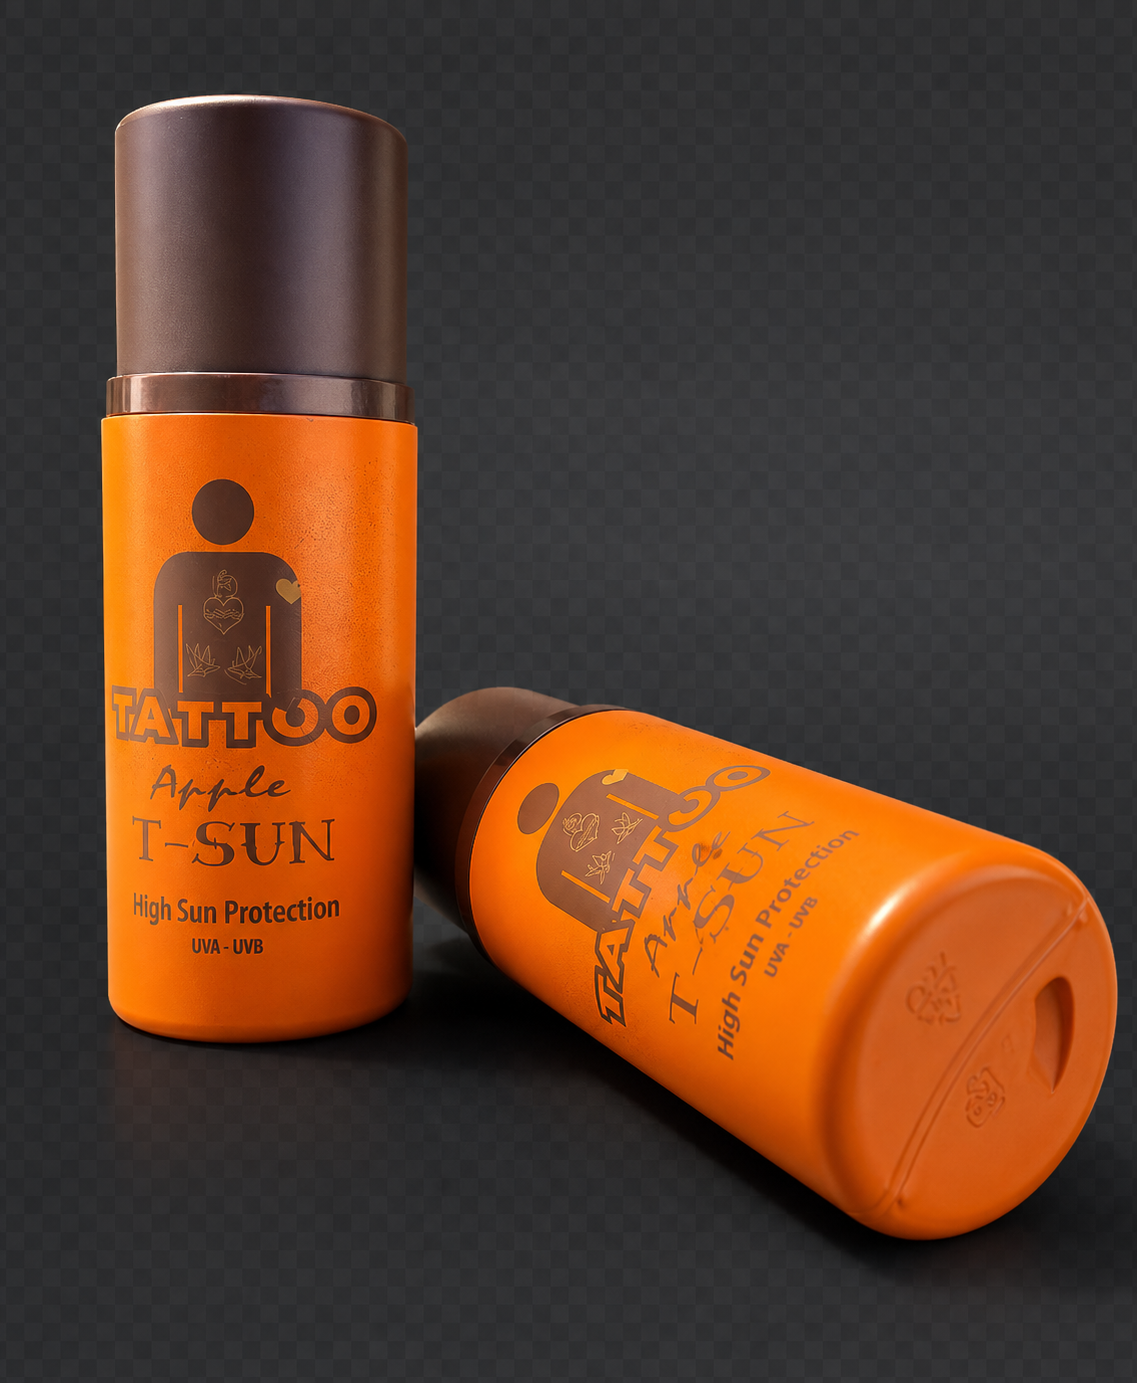
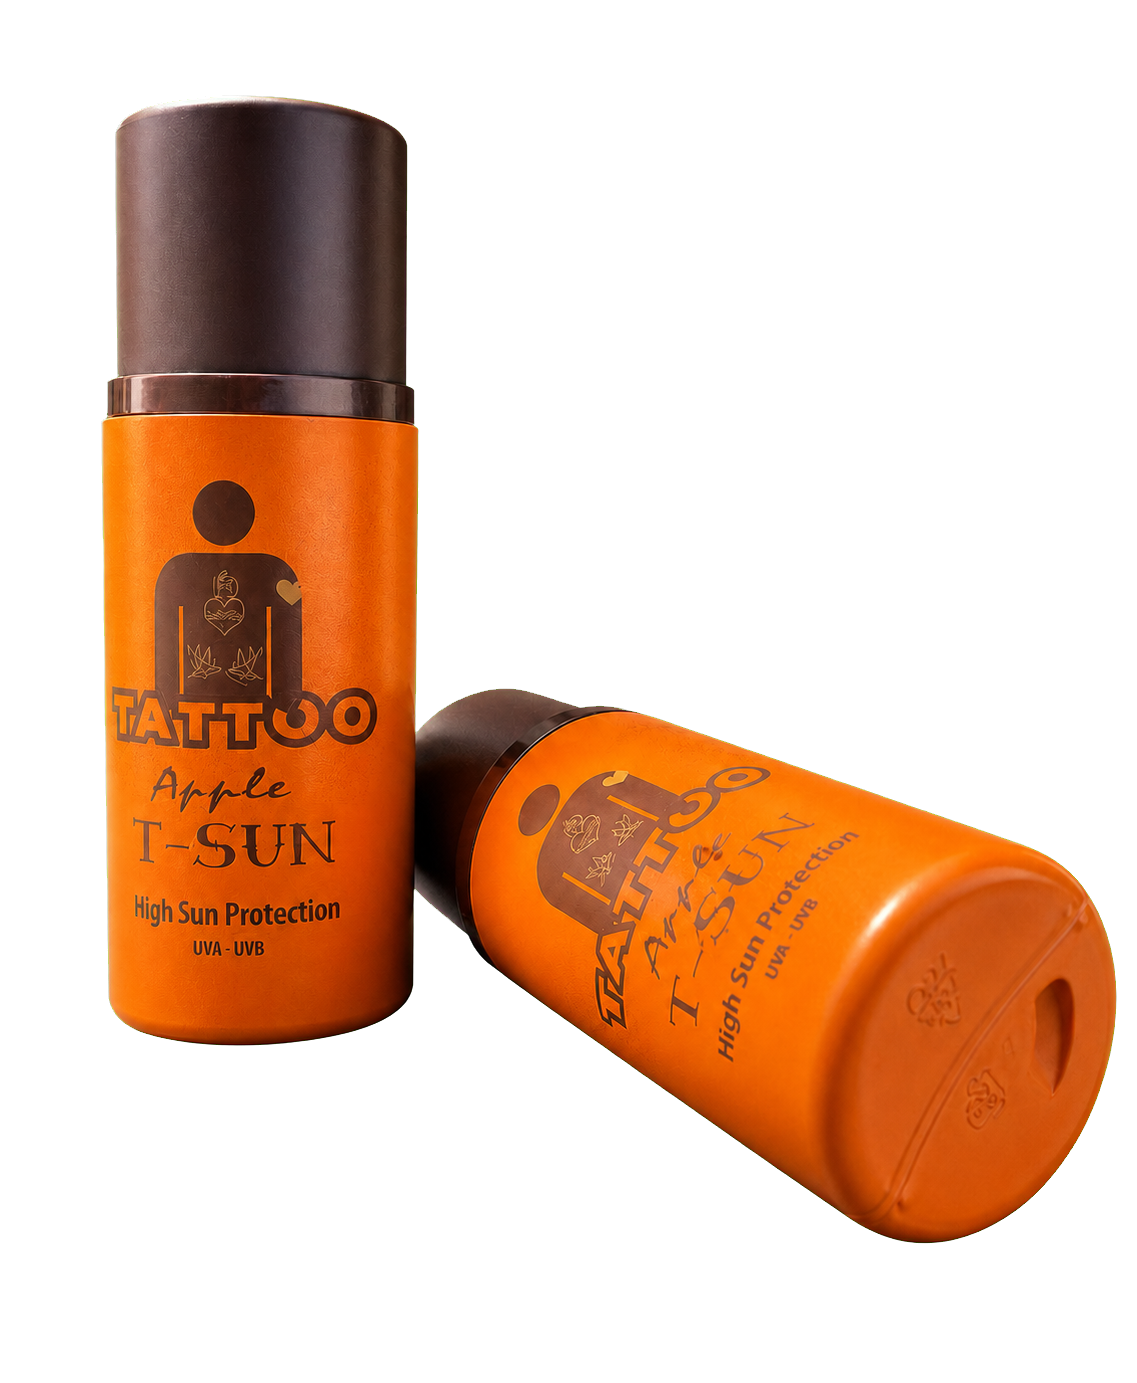
Float product carousel cutouts

diff --git a/style.css b/style.css
@@ -736,13 +736,13 @@ h2 {
 .products {
   padding: clamp(72px, 10vw, 132px) clamp(22px, 7vw, 120px);
   background:
-    radial-gradient(circle at 78% 18%, rgba(224, 166, 111, 0.14), transparent 32%),
-    linear-gradient(180deg, rgba(2, 3, 2, 0.12), rgba(2, 3, 2, 0.56));
+    radial-gradient(circle at 48% 34%, rgba(224, 166, 111, 0.1), transparent 36%),
+    linear-gradient(180deg, rgba(2, 3, 2, 0.04), rgba(2, 3, 2, 0.28));
 }
 
 .product-stage {
   position: relative;
-  min-height: clamp(560px, 58vw, 760px);
+  min-height: clamp(620px, 62vw, 820px);
   overflow: hidden;
 }
 
@@ -750,22 +750,24 @@ h2 {
   position: absolute;
   inset: 0;
   display: grid;
-  grid-template-columns: minmax(0, 0.72fr) minmax(340px, 0.9fr);
-  gap: clamp(24px, 5vw, 78px);
+  grid-template-columns: minmax(360px, 0.92fr) minmax(260px, 0.48fr);
+  gap: clamp(22px, 4vw, 64px);
   align-items: center;
   opacity: 0;
   transform: translateX(42%) scale(0.82);
   transform-origin: center;
-  animation: product-cycle 10s cubic-bezier(0.76, 0, 0.24, 1) infinite;
+  animation: product-cycle 60s cubic-bezier(0.76, 0, 0.24, 1) infinite;
   will-change: transform, opacity, filter;
 }
 
 .product-slide-general {
-  animation-delay: 5s;
+  animation-delay: 30s;
 }
 
 .product-copy {
-  max-width: 560px;
+  order: 2;
+  max-width: 420px;
+  justify-self: start;
 }
 
 .product-copy span {
@@ -791,9 +793,10 @@ h2 {
 }
 
 .product-slide img {
-  width: min(100%, 590px);
+  order: 1;
+  width: min(100%, 620px);
   justify-self: center;
-  filter: drop-shadow(0 42px 86px rgba(0, 0, 0, 0.58));
+  filter: drop-shadow(0 46px 90px rgba(0, 0, 0, 0.62));
 }
 
 @keyframes product-cycle {
@@ -910,7 +913,9 @@ textarea:focus {
   }
 
   .product-copy {
+    justify-self: center;
     max-width: 680px;
+    text-align: center;
   }
 }
 
@@ -1260,12 +1265,17 @@ textarea:focus {
   }
 
   .product-stage {
-    min-height: 610px;
+    min-height: 690px;
   }
 
   .product-slide {
     gap: 16px;
     align-content: start;
+  }
+
+  .product-copy {
+    max-width: 340px;
+    text-align: center;
   }
 
   .product-copy h3 {
@@ -1279,7 +1289,7 @@ textarea:focus {
   }
 
   .product-slide img {
-    width: min(98%, 360px);
+    width: min(100%, 360px);
   }
 
   .event-list {